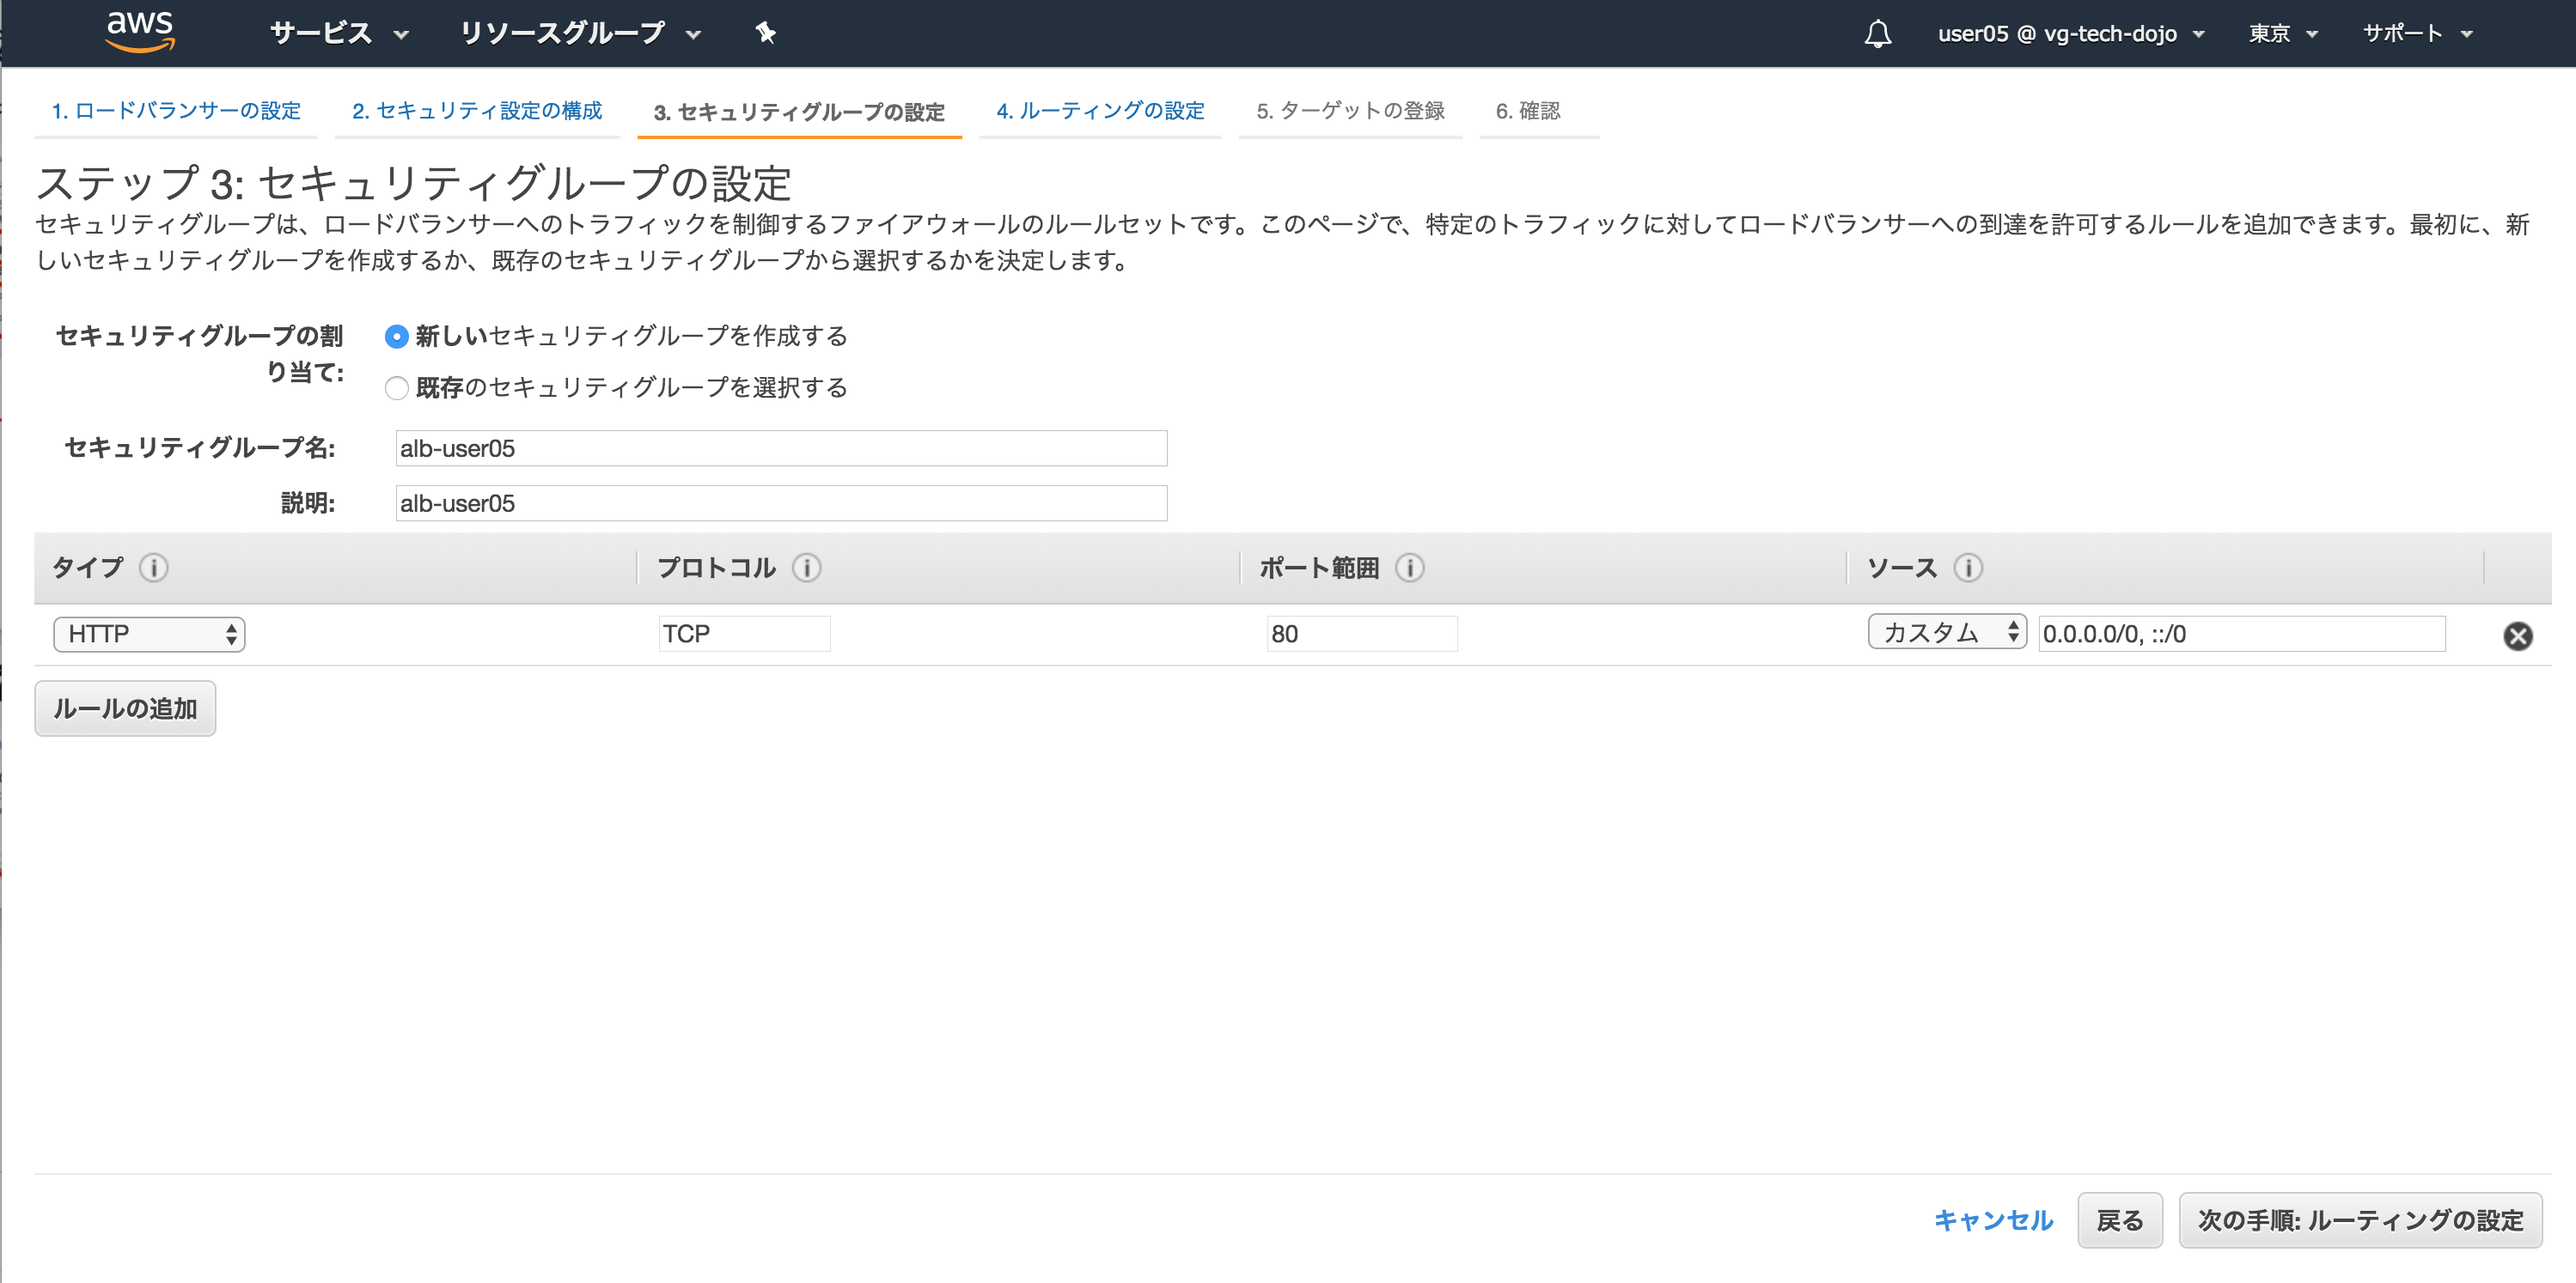
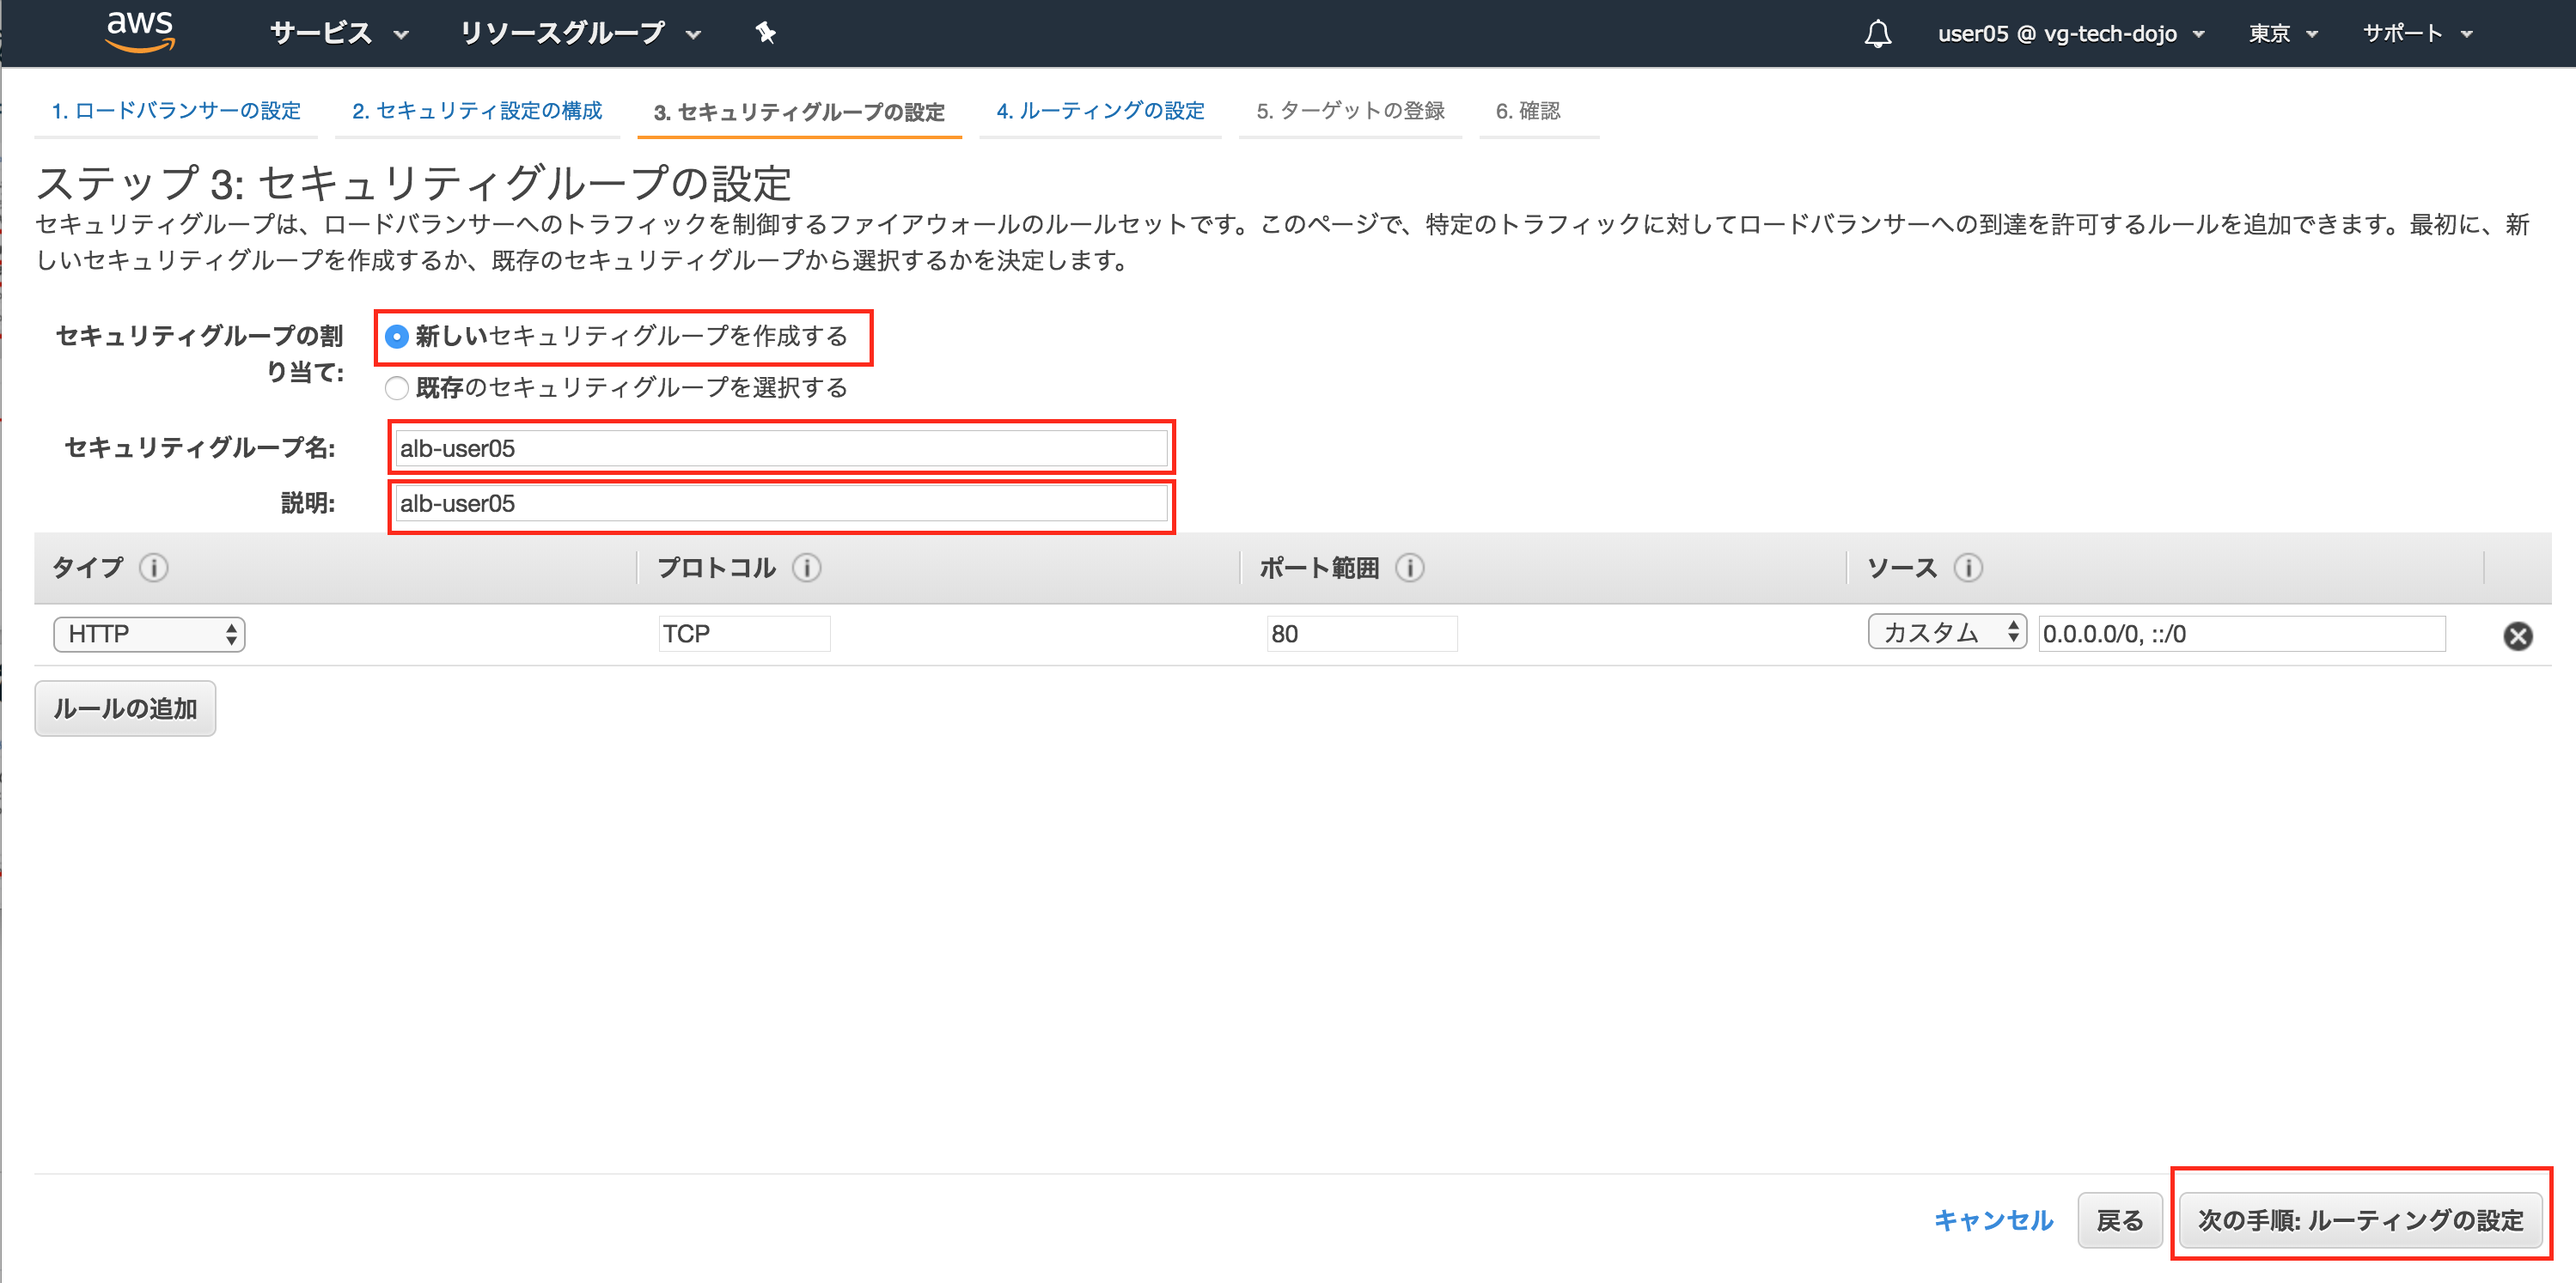
commit

diff --git a/Step-3.md b/Step-3.md
@@ -357,6 +357,8 @@ nameserver 10.0.0.2
 ![create-elb-4](./images/step-3/create-elb-4.png "CREATE-ELB-4")
 
 ----
+**新しいセキュリティグループを作成するをチェック、セキュリティグループ名と説明は「alb-ユーザ名」を設定し、次の手順：ルーティングの設定ボタンを押下**
+
 ![create-elb-5](./images/step-3/create-elb-5.png "CREATE-ELB-5")
 
 ----
